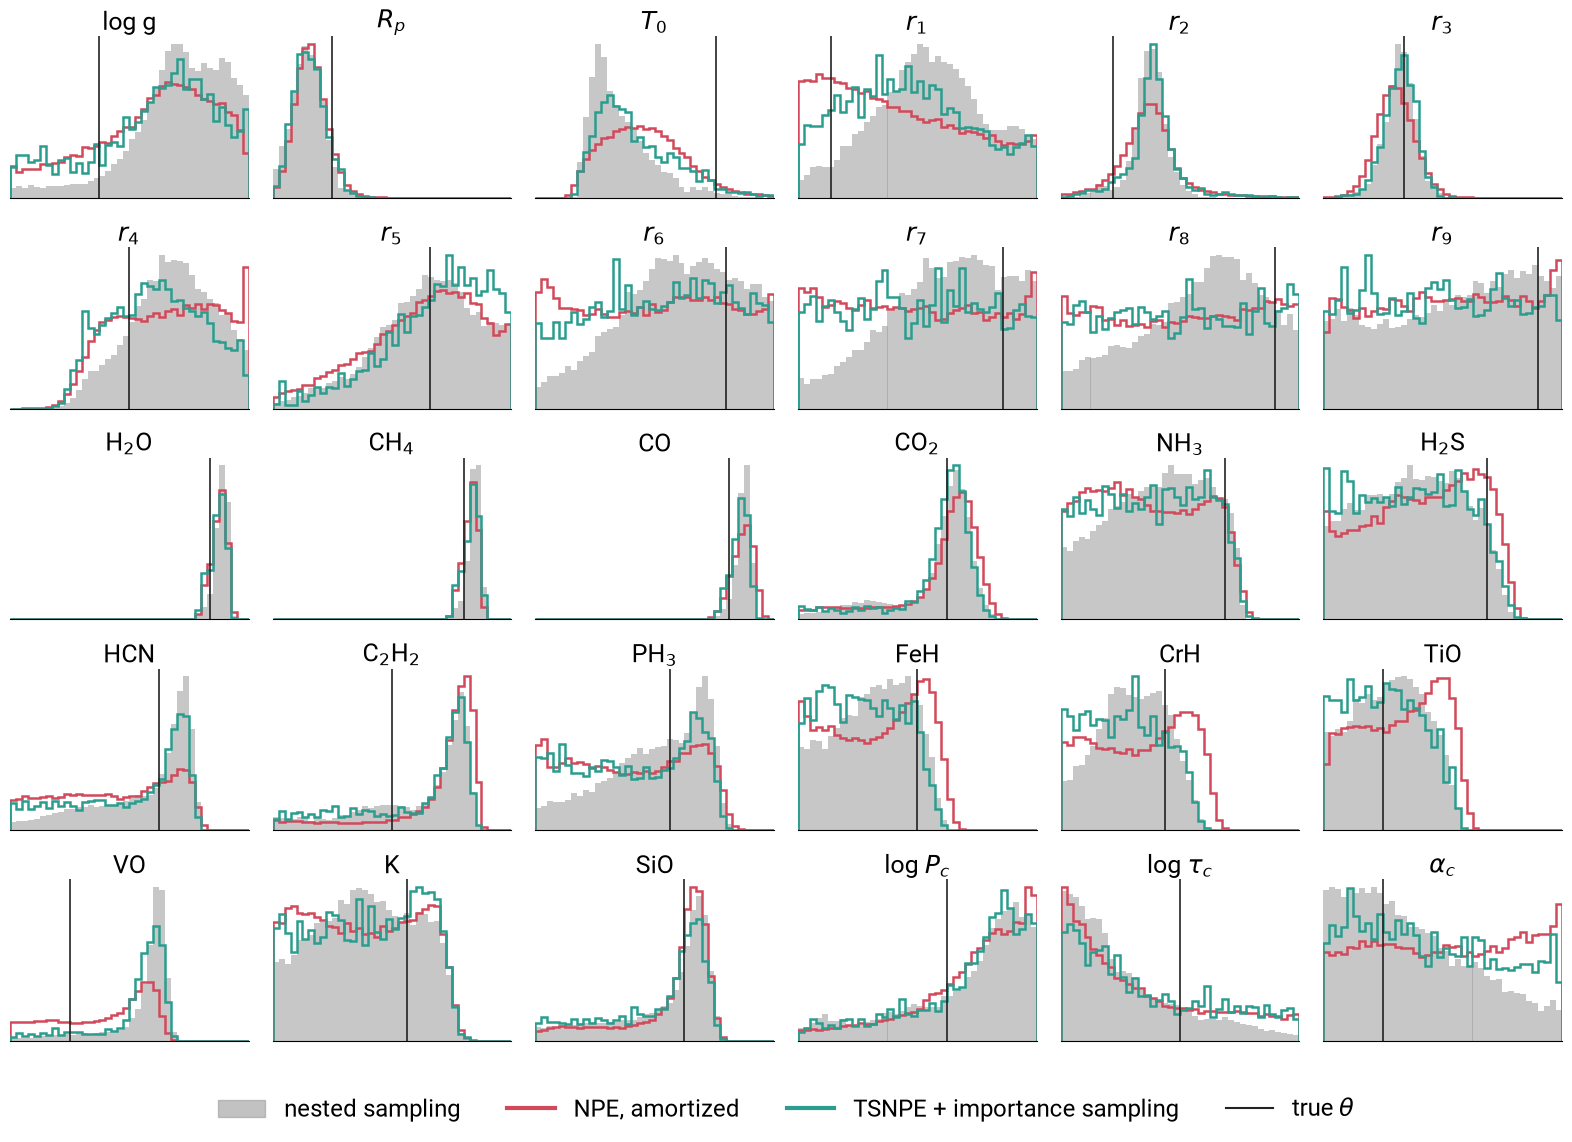
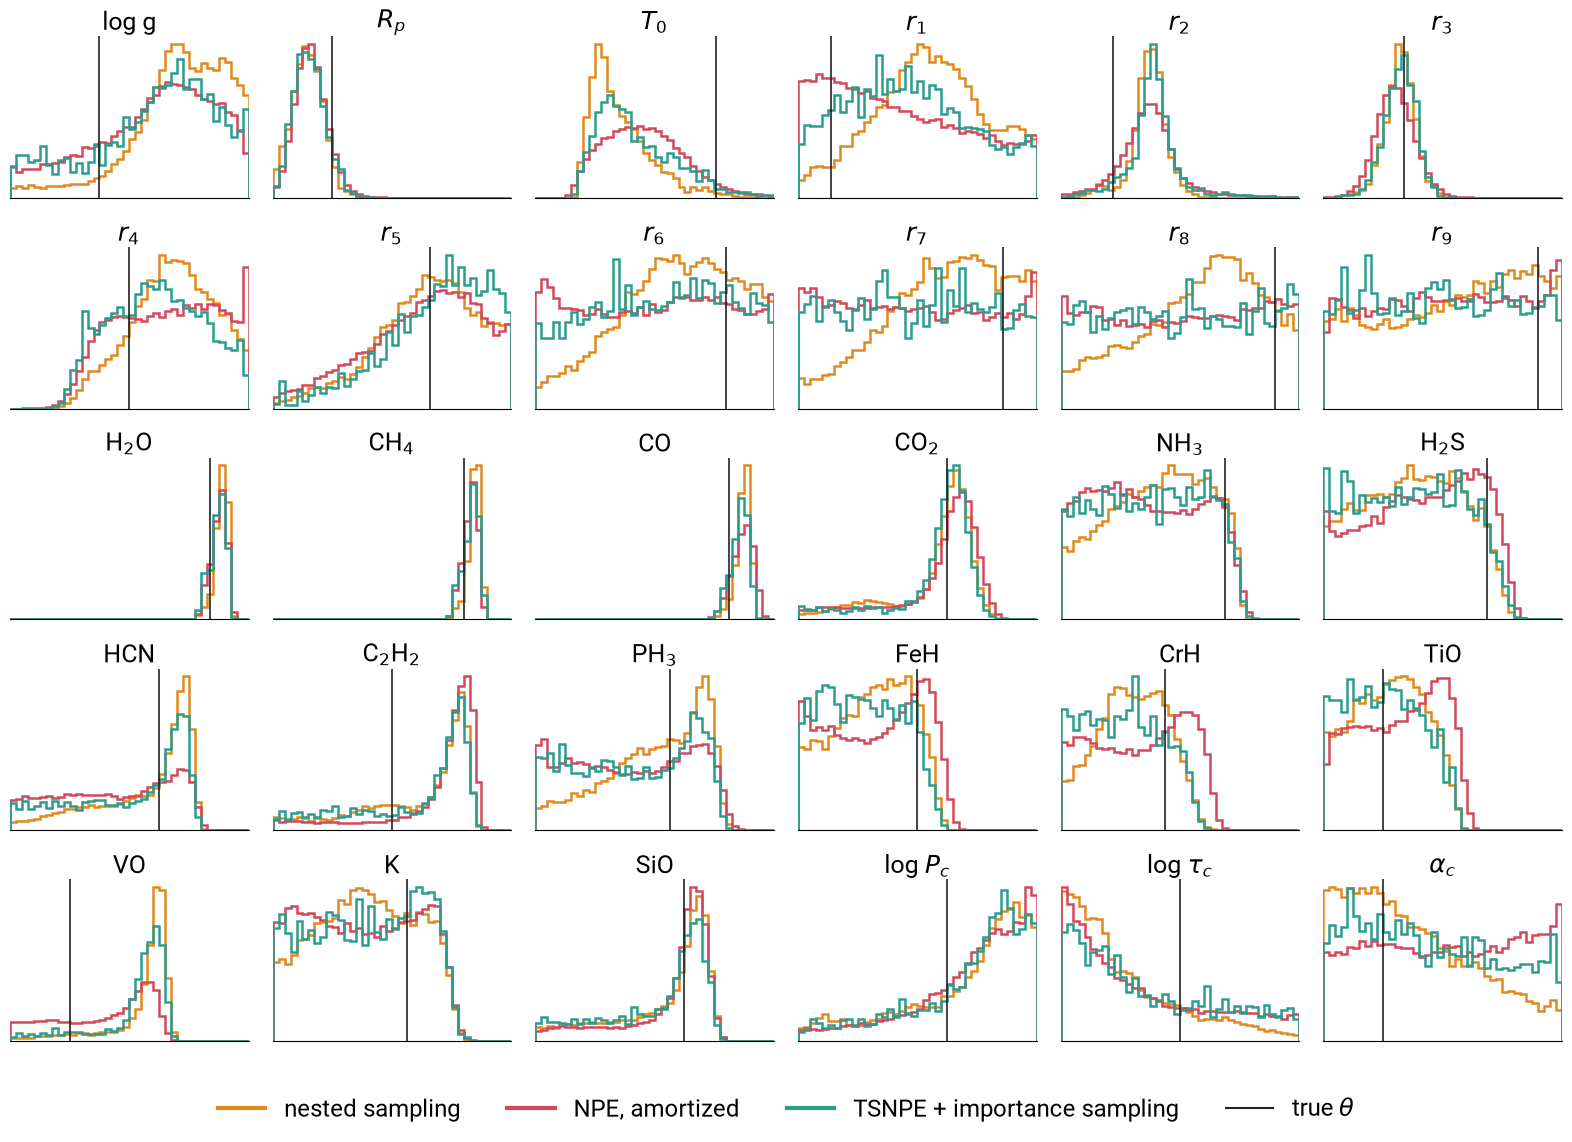
30-parameter backups: nested sampling as an orange line, not a grey reference

diff --git a/tools/t30_figures.py b/tools/t30_figures.py
@@ -21,7 +21,7 @@ import toy_exo30 as T
 
 D = ".render/data/t30/"
 SIGMA = T.SIGMA_NOISE * T.Simulator.scale
-NS_COL, NPE_COL, TS_COL = "#9a9a9a", "#d1495b", "#2a9d8f"
+NS_COL, NPE_COL, TS_COL = "#e08a1e", "#d1495b", "#2a9d8f"  # all three as lines: no method is the reference
 LABELS = {"R_p": r"$R_P$", "T_0": r"$T_0$", "r_3": r"$r_3$", "log_H2O": r"$\log X_{\rm H_2O}$",
           "log_CH4": r"$\log X_{\rm CH_4}$", "log_CO": r"$\log X_{\rm CO}$", "log_FeH": r"$\log X_{\rm FeH}$",
           "log_TiO": r"$\log X_{\rm TiO}$", "log_VO": r"$\log X_{\rm VO}$"}
@@ -99,12 +99,10 @@ def corner_full():
     plt.rcParams.update({"font.size": 14, "font.family": "Roboto"})
     kw = dict(bins=25, smooth=1.2, plot_datapoints=False, plot_density=False, levels=(0.68, 0.95), range=rng_,
               labels=labels, label_kwargs={"fontsize": 17}, max_n_ticks=0, labelpad=0.2)
-    s0 = data[0][1]
-    fig = corner.corner(s0, color=NS_COL, fill_contours=True, contour_kwargs={"linewidths": 0},
-                        hist_kwargs={"lw": 0, "density": True, "histtype": "stepfilled", "alpha": 0.45}, **kw)
-    for lab, s, c in data[1:]:
-        corner.corner(s, color=c, fig=fig, fill_contours=False, no_fill_contours=True,
-                      contour_kwargs={"linewidths": 0.9}, hist_kwargs={"lw": 1.2, "density": True}, **kw)
+    fig = None
+    for lab, s, c in data:
+        fig = corner.corner(s, color=c, fig=fig, fill_contours=False, no_fill_contours=True,
+                            contour_kwargs={"linewidths": 0.9}, hist_kwargs={"lw": 1.2, "density": True}, **kw)
     n = len(T.NAMES)
     for k in range(n):
         ax = fig.axes[k * n + k]
@@ -113,7 +111,7 @@ def corner_full():
         ax.set_ylim(0, ax.get_ylim()[1] * 1.05)
     corner.overplot_lines(fig, T.THETA_STAR, color="#777", lw=0.4)
     fig.set_size_inches(22, 22)
-    handles = [plt.matplotlib.patches.Patch(color=NS_COL, alpha=0.6, label="nested sampling"),
+    handles = [plt.Line2D([], [], color=NS_COL, lw=4, label="nested sampling"),
                plt.Line2D([], [], color=NPE_COL, lw=4, label="NPE, amortized"),
                plt.Line2D([], [], color=TS_COL, lw=4, label="TSNPE + importance sampling"),
                plt.Line2D([], [], color="#222", lw=2, label=r"true $\theta$")]
@@ -141,10 +139,7 @@ def marginals_fig(ncol=6):
             continue
         bins = np.linspace(T.LOWER[i], T.UPPER[i], 41)
         for lab, s, c in data:
-            if c == NS_COL:
-                ax.hist(s[:, i], bins, density=True, color=c, alpha=0.55, lw=0)
-            else:
-                ax.hist(s[:, i], bins, density=True, histtype="step", color=c, lw=1.8)
+            ax.hist(s[:, i], bins, density=True, histtype="step", color=c, lw=1.8)
         ax.axvline(T.THETA_STAR[i], color="#222", lw=1.2)
         ax.set_xlim(T.LOWER[i], T.UPPER[i])
         ax.set_yticks([])
@@ -152,7 +147,7 @@ def marginals_fig(ncol=6):
         for sp in ("top", "right", "left"):
             ax.spines[sp].set_visible(False)
         ax.set_title(names[i], fontsize=18, pad=4)
-    handles = [plt.matplotlib.patches.Patch(color=NS_COL, alpha=0.6, label="nested sampling"),
+    handles = [plt.Line2D([], [], color=NS_COL, lw=3, label="nested sampling"),
                plt.Line2D([], [], color=NPE_COL, lw=3, label="NPE, amortized"),
                plt.Line2D([], [], color=TS_COL, lw=3, label="TSNPE + importance sampling"),
                plt.Line2D([], [], color="#222", lw=1.5, label=r"true $\theta$")]
@@ -213,7 +208,7 @@ def ppc_fig(n=300):
     for (lab, _, c), f in zip(data, preds):
         rep = f + SIGMA * rng.standard_normal(f.shape)
         lo, hi = np.quantile(rep, [0.025, 0.975], axis=0)
-        ax.fill_between(wl, lo, hi, color=c, alpha=0.35 if c == NS_COL else 0.18, lw=0)
+        ax.fill_between(wl, lo, hi, color=c, alpha=0.15, lw=0)
         ax.plot(wl, np.median(f, 0), color=c, lw=1.6)
     ax.errorbar(wl, x, yerr=SIGMA, fmt="o", ms=3, color="#222", elinewidth=0.8, zorder=5)
     ax.set_ylabel("Flux")
@@ -226,7 +221,7 @@ def ppc_fig(n=300):
         lo, med, hi = np.quantile(r, [0.16, 0.5, 0.84], axis=0)
         axr.axhspan(-2, 2, color="#eeeeee", lw=0)
         axr.fill_between(wl, lo, hi, color=c, alpha=0.4, lw=0)
-        axr.plot(wl, med, color=c if c != NS_COL else "#666", lw=1.0)
+        axr.plot(wl, med, color=c, lw=1.0)
         axr.axhline(0, color="#999", lw=0.8)
         axr.set_ylim(-4.5, 4.5)
         axr.set_yticks([-3, 0, 3])
@@ -238,10 +233,7 @@ def ppc_fig(n=300):
     bins = np.linspace(100, 400, 61)
     for (lab, _, c), f, leg in zip(data, preds, legend):
         chi = np.sum(((x - f) / SIGMA) ** 2, 1)
-        if c == NS_COL:
-            axc.hist(chi, bins, color=c, alpha=0.55, density=True, label=leg, orientation="horizontal")
-        else:
-            axc.hist(chi, bins, histtype="step", lw=2.5, color=c, density=True, label=leg, orientation="horizontal")
+        axc.hist(chi, bins, histtype="step", lw=2.5, color=c, density=True, label=leg, orientation="horizontal")
     chi_true = np.sum(((x - sim.clean(T.THETA_STAR)) / SIGMA) ** 2)
     axc.axhline(chi_true, color="#222", lw=1.5, ls="--")
     axc.text(0.98, chi_true + 4, r"true $\theta$", transform=axc.get_yaxis_transform(), ha="right", fontsize=16)

diff --git a/talk.md b/talk.md
@@ -896,7 +896,7 @@ class: middle
 
 ## Backup: 30-parameter retrieval
 
-.center.width-70[![](figures/t30-corner-full.png)]
+.center.width-70[![](figures/t30-corner-full.png?v=2)]
 
 .footnote[TSNPE: truncated sequential NPE, [Deistler et al](https://arxiv.org/abs/2210.04815), NeurIPS 2022. Free retrieval, 0.8 to 5 μm.]
 
@@ -904,7 +904,7 @@ class: middle
 
 A harder version of our toy, closer to a real free retrieval. Thirty parameters: a temperature profile with ten nodes, fifteen molecules and a non-grey cloud, from 0.8 to 5 microns. Many are barely constrained, like the trace molecules. Each network gets one million simulations. TSNPE spends them in five rounds, around the observation.
 
-Amortized NPE gets the broad picture, but it is off on the temperature and on the trace species. TSNPE trains on the observation in rounds, and each round simulates only where the posterior is. With importance sampling on top, it follows nested sampling closely.
+Amortized NPE gets the broad picture, but it is off on the temperature and on the trace species. TSNPE trains on the observation in rounds, and each round simulates only where the posterior is. With importance sampling on top, it agrees closely with nested sampling.
 
 One honest caveat. TSNPE puts more mass than nested sampling in a tail at low abundances, about 19% against 6%. Which one is right would need a third reference.
 
@@ -913,7 +913,7 @@ One honest caveat. TSNPE puts more mass than nested sampling in a tail at low ab
 count: false
 class: middle
 
-.center.width-100[![](figures/t30-marginals.png)]
+.center.width-100[![](figures/t30-marginals.png?v=2)]
 
 ???
 
@@ -926,7 +926,7 @@ For the barely constrained temperature ratios, the networks are close to flat, a
 count: false
 class: middle
 
-.center.width-100[![](figures/t30-ppc.png)]
+.center.width-100[![](figures/t30-ppc.png?v=2)]
 
 ???
 
